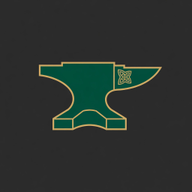
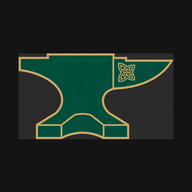
Restyle header as a filled rectangular bar
Make the nav a solid rounded rectangle with a denser logo chip and
tighter anvil mark so the header reads as one filled block.

Changed region(s): [[0.0625, 0.25, 0.9375, 0.75]]

diff --git a/src/styles/global.css b/src/styles/global.css
@@ -82,81 +82,113 @@ main,
   display: flex;
   align-items: center;
   justify-content: space-between;
-  padding: 1.25rem 1.25rem 0;
-  gap: 0.75rem;
+  gap: 1rem;
   min-width: 0;
+  /* filled rectangular bar */
+  margin-top: 1rem;
+  padding: 0.65rem 0.85rem 0.65rem 0.65rem;
+  border-radius: 14px;
+  background: rgba(17, 24, 39, 0.92);
+  border: 1px solid var(--border);
+  box-shadow: 0 8px 28px rgba(0, 0, 0, 0.28);
+  backdrop-filter: blur(10px);
 }
 
 .logo {
   display: inline-flex;
   align-items: center;
-  gap: 0.55rem;
+  gap: 0.65rem;
   text-decoration: none;
   color: var(--text);
   min-width: 0;
+  flex-shrink: 0;
+  /* logo block as its own filled rectangle */
+  padding: 0.3rem 0.75rem 0.3rem 0.3rem;
+  border-radius: 10px;
+  background: rgba(13, 107, 69, 0.14);
+  border: 1px solid rgba(13, 107, 69, 0.35);
 }
 
 .logo.brand-logo {
   width: auto;
   height: auto;
-  background: none;
-  border: none;
-  border-radius: 0;
   place-items: unset;
 }
 
+.logo:hover {
+  border-color: rgba(201, 162, 39, 0.45);
+  background: rgba(13, 107, 69, 0.22);
+}
+
 .logo-mark {
-  width: 36px;
-  height: 36px;
-  border-radius: 10px;
+  width: 40px;
+  height: 40px;
+  border-radius: 8px;
   object-fit: cover;
-  border: 1px solid rgba(201, 162, 39, 0.35);
-  box-shadow: 0 0 0 3px rgba(13, 107, 69, 0.15);
+  object-position: center;
+  border: 1px solid rgba(201, 162, 39, 0.4);
+  background: #141414;
   flex-shrink: 0;
 }
 
 .logo-word {
   font-weight: 700;
-  font-size: 1.02rem;
-  letter-spacing: 0.02em;
+  font-size: 0.98rem;
+  letter-spacing: 0.03em;
   color: var(--text);
   white-space: nowrap;
+  padding-right: 0.15rem;
 }
 
-.logo-word:hover {
+.logo:hover .logo-word {
   color: var(--accent);
 }
 
 .nav {
   display: flex;
   align-items: center;
-  gap: 0.35rem 1rem;
-  flex-wrap: wrap;
+  gap: 0.15rem;
+  flex-wrap: nowrap;
   justify-content: flex-end;
+  min-width: 0;
+  overflow-x: auto;
+  scrollbar-width: none;
+  -ms-overflow-style: none;
+  padding: 0.15rem;
+  border-radius: 10px;
+}
+
+.nav::-webkit-scrollbar {
+  display: none;
 }
 
 .nav a {
   color: var(--muted);
   text-decoration: none;
-  font-size: 0.92rem;
+  font-size: 0.86rem;
   font-weight: 500;
-  transition: color 0.15s;
+  transition: color 0.15s, background 0.15s;
+  padding: 0.45rem 0.65rem;
+  border-radius: 8px;
+  white-space: nowrap;
 }
 
 .nav a:hover {
   color: var(--text);
+  background: rgba(148, 163, 184, 0.1);
 }
 
 .nav-cta {
-  padding: 0.4rem 0.85rem;
-  border-radius: 999px;
-  background: var(--accent-dim);
+  padding: 0.45rem 0.9rem !important;
+  border-radius: 8px !important;
+  background: var(--accent-dim) !important;
   color: var(--accent) !important;
   border: 1px solid rgba(45, 212, 191, 0.3);
+  margin-left: 0.2rem;
 }
 
 .nav-cta:hover {
-  background: rgba(45, 212, 191, 0.2);
+  background: rgba(45, 212, 191, 0.22) !important;
 }
 
 main {
@@ -790,13 +822,34 @@ h1 {
   border-top: 1px solid var(--border);
 }
 
-@media (max-width: 520px) {
+@media (max-width: 720px) {
   .nav a:not(.nav-cta) {
     display: none;
   }
 
+  .site-header {
+    margin-top: 0.75rem;
+    padding: 0.5rem 0.55rem 0.5rem 0.5rem;
+  }
+
+  .logo {
+    gap: 0.5rem;
+    padding: 0.25rem 0.55rem 0.25rem 0.25rem;
+  }
+
+  .logo-mark {
+    width: 36px;
+    height: 36px;
+  }
+
+  .logo-word {
+    font-size: 0.9rem;
+  }
+}
+
+@media (max-width: 520px) {
   .hero {
-    padding-top: 2.25rem;
+    padding-top: 1.75rem;
   }
 
   .hero-brand-lockup {
@@ -809,10 +862,6 @@ h1 {
     width: 88px;
     height: 88px;
     border-radius: 20px;
-  }
-
-  .logo-word {
-    font-size: 0.95rem;
   }
 
   .hero-actions {
@@ -829,6 +878,12 @@ h1 {
   .site-footer {
     padding-left: 1rem;
     padding-right: 1rem;
+  }
+
+  .site-header {
+    /* horizontal padding already on container; bar stays inset */
+    margin-left: 0;
+    margin-right: 0;
   }
 
   /* Side-slide causes horizontal rubber-band on phones — use vertical only */
